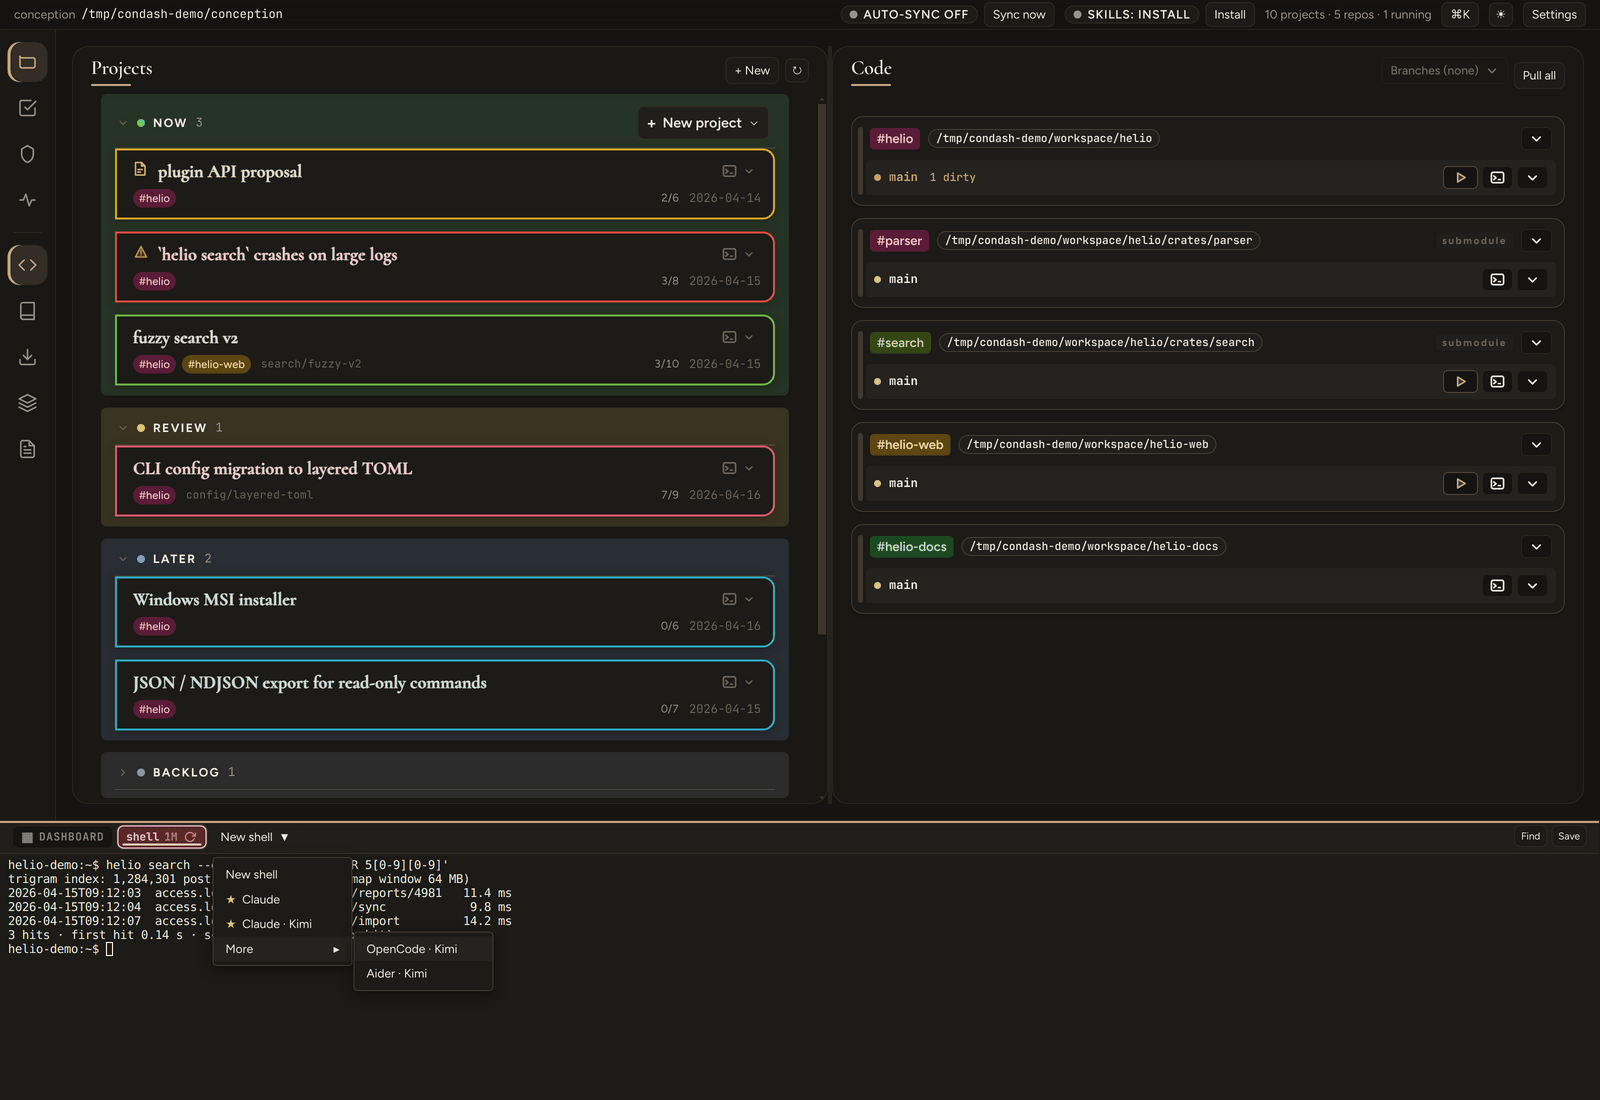
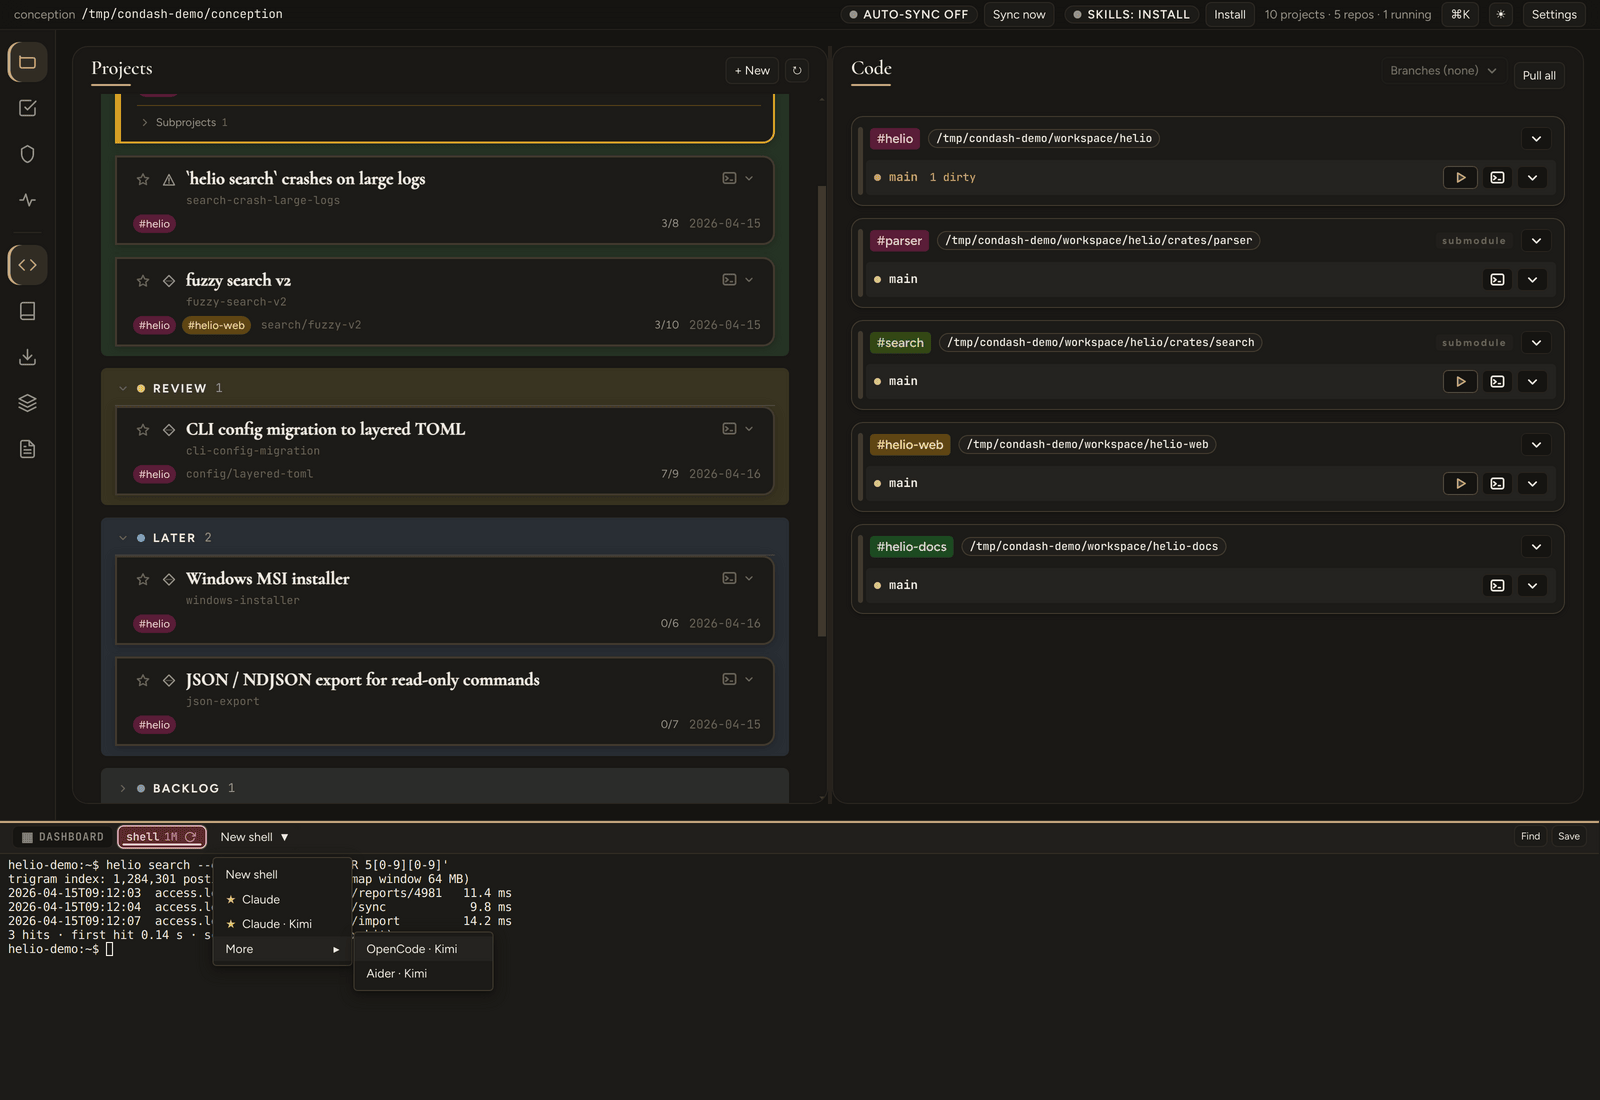
projects pane: indent the slug past the glyph column, re-shoot the doc screenshots
With the kind glyph on every card the title text starts 25 px (16 px glyph + 9 px gap) right of the star gutter, and the slug line — indented by --star-gutter only — hung left of its own title again, exactly the shape the project-star alignment assertion pins (it failed: 25 px off). The slug now indents past the glyph column too, guarded by :has(.kind-glyph) on the title row so an unknown kind (no glyph) still lines up. The title row reads as star | glyph | text block.

22 of the 34 docs/assets/screenshots/*.png re-shot on the merged tree via tests/screenshots.spec.ts + the halving/pngquant recipe (directory stays 2.7 MB); the demo fixture now shows the plugin-api family on the proposal card.

Changed region(s): [[0.0625, 0.0618, 0.5312, 0.7727]]

diff --git a/src/renderer/panes/projects-pane.css b/src/renderer/panes/projects-pane.css
@@ -645,10 +645,12 @@ body[data-dragging='project'] .row {
  * faint mono, so a card names the thing you type into a command. Kept to one
  * line — a long slug ellipsises instead of wrapping and pushing the meta row
  * down, and the full dated slug stays in the element's tooltip. */
-/* Indent by the gutter the star claims in the title row, so an item's
- * identifier shares a left edge with its title instead of hanging out to its
- * left. The meta row below keeps the card's full width — it reads as its own
- * footer band, not as part of the title block. */
+/* Indent by the gutter the star claims in the title row — plus the kind
+ * glyph's column when the title carries one — so an item's identifier shares a
+ * left edge with its title *text* instead of hanging out to its left. The
+ * title row then reads as star | glyph | text block (title over slug). The
+ * meta row below keeps the card's full width — it reads as its own footer
+ * band, not as part of the title block. */
 .row .slug {
   margin-left: var(--star-gutter);
   font-family: var(--font-mono);
@@ -661,6 +663,13 @@ body[data-dragging='project'] .row {
   /* The .row-head gap reads as a gulf between a title and its own identifier —
    * pull the line up so the two group together, away from the meta row. */
   margin-top: -3px;
+}
+/* Glyph column: the 16 px glyph plus the title's 9 px gap. Only when the row
+ * above actually rendered a glyph — an `unknown` kind has none, and its slug
+ * still lines up with its title text at the star gutter. Keep the sum in step
+ * with `.kind-glyph` (styles.css) and `.row .title` gap. */
+.row .title-row:has(.kind-glyph) + .slug {
+  margin-left: calc(var(--star-gutter) + 25px);
 }
 
 .row .meta {

diff --git a/tests/project-star.spec.ts b/tests/project-star.spec.ts
@@ -91,11 +91,13 @@ test('clicking the star does not open the card preview', async () => {
 });
 
 test('the star gutter keeps the slug line aligned with its title', async () => {
-  // The star claims a left gutter at the head of the title row, which pushes the
-  // title text right. The slug line below is a sibling row, so it has to indent
-  // by the same `--star-gutter` or it hangs out to the left of its own title —
-  // exactly what the (conflict-free) merge with the slug-line feature produced.
-  // Nothing else asserts that alignment, and no marker in the diff would show it.
+  // The star claims a left gutter at the head of the title row, and the kind
+  // glyph a second column after it; both push the title text right. The slug
+  // line below is a sibling row, so it has to indent by the same amount or it
+  // hangs out to the left of its own title — exactly what the (conflict-free)
+  // merge with the slug-line feature produced, and again when the glyph landed
+  // on every card. Nothing else asserts that alignment, and no marker in the
+  // diff would show it.
   const booted = await bootApp({ prepare: prepareSibling });
   try {
     const card = booted.window.locator('article.row', { hasText: 'Alpha project' });
